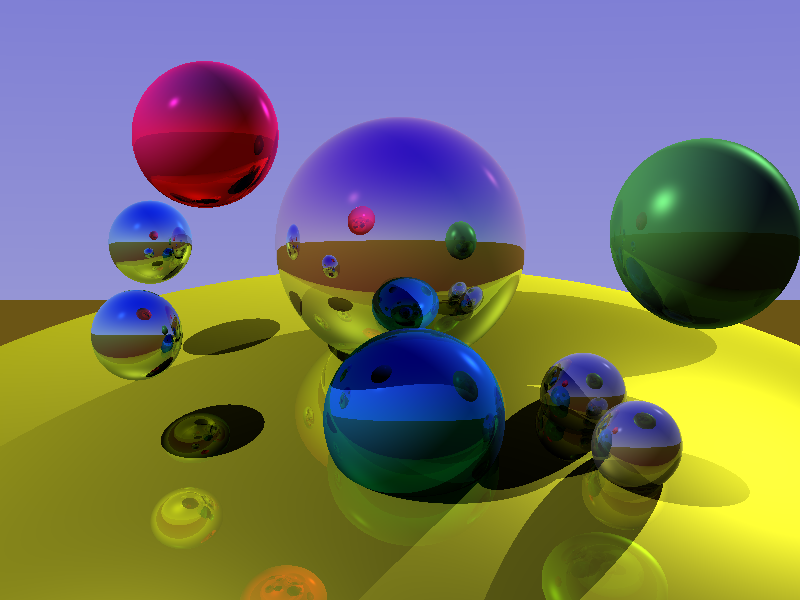
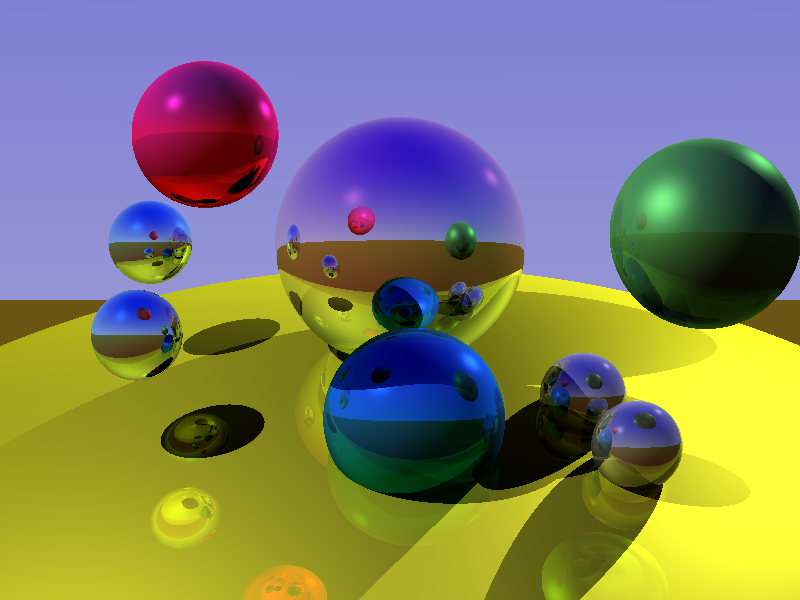
blinn reflet

diff --git a/src/Sphere.java b/src/Sphere.java
@@ -119,9 +119,11 @@ public class Sphere
                     finale = Couleur.add(finale, Kd.mul(nl).mul(lampe.getCouleur()));
 
                     /// Eclairement Spéculaire
-                    // Equation de Phong
-                    float rl = r.dot(l);
-                    if (rl > 0) finale = Couleur.add(finale, Kd.mul( (float) Math.pow(rl, this.Ns) ).mul(lampe.getCouleur()));
+                    // Equation de Blinn
+                    Vecteur h = l.add(sub_v);
+                    h.normaliser();
+                    float hn = h.dot(n);
+                    if (hn > 0) finale = Couleur.add(finale, Kd.mul( (float) Math.pow(hn, this.Ns) ).mul(lampe.getCouleur()));
                 }
             }
         }

diff --git a/README.md b/README.md
@@ -1,4 +1,6 @@
 # lancer_rayons
 Synthèse d'images par lancer de rayons
 
+## Reflet spéculaire de Blinn
+
 ![Screen](image.png)
